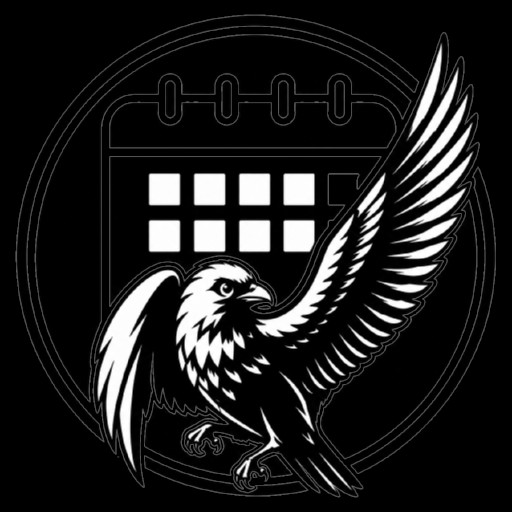
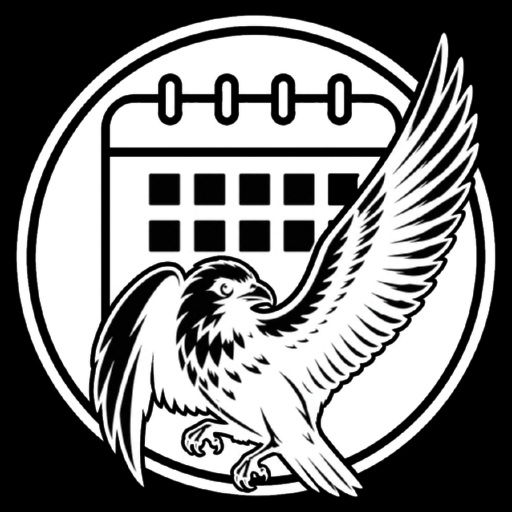
Инвертированный логотип и свои окна подтверждения
На чёрной подложке календарь терялся: он нарисован чёрным с тонкой
белой обводкой и сливался с фоном. Логотип инвертирован — круг стал
белым, рисунок внутри чёрным, читается целиком.

Системные confirm заменены на своё окно: у прошивочного диалога кнопки
на языке системы и чужое оформление. Подтверждение выхода тоже переехало
в веб-часть, нативный диалог остался запасным вариантом.

diff --git a/www/app.js b/www/app.js
@@ -1139,6 +1139,39 @@ function renderProjectDetails(projectId) {
     : '<div class="project-empty">В этом разделе пока нет задач</div>';
 }
 
+/* ---------- своё окно подтверждения вместо системного ---------- */
+
+let dialogResolve = null;
+
+function askConfirm({ title, text = '', ok = 'Продолжить', danger = false }) {
+  return new Promise(resolve => {
+    if (dialogResolve) dialogResolve(false);   // предыдущее считаем отменённым
+    dialogResolve = resolve;
+    $('#dialogTitle').textContent = title;
+    $('#dialogText').textContent = text;
+    $('#dialogText').style.display = text ? '' : 'none';
+    const okBtn = $('#dialogOk');
+    okBtn.textContent = ok;
+    okBtn.classList.toggle('danger', danger);
+    okBtn.classList.toggle('primary', !danger);
+    $('#dialogWrap').classList.add('on');
+  });
+}
+
+function closeDialog(value) {
+  const resolve = dialogResolve;
+  dialogResolve = null;
+  $('#dialogWrap').classList.remove('on');
+  if (resolve) resolve(value);
+}
+
+async function askExit() {
+  const ok = await askConfirm({ title: 'Выйти из приложения?', ok: 'Выйти', danger: true });
+  if (!ok) return;
+  const native = window.Capacitor?.Plugins?.AppSettings;
+  if (native?.exitApp) await native.exitApp();
+}
+
 function showSheet(sel) {
   $('#backdrop').classList.add('on');
   $(sel).classList.add('on');
@@ -1241,7 +1274,18 @@ function goBackView() {
   return false;
 }
 
-window.dayplanHandleBack = () => closeTopSheet() || goBackView();
+/**
+ * Кнопку «Назад» разбирает веб-часть. Возвращать нужно строго синхронно:
+ * Java читает результат сразу, поэтому подтверждение выхода показывается
+ * без ожидания, а true отдаётся немедленно — обработку мы взяли на себя.
+ */
+window.dayplanHandleBack = () => {
+  if (dialogResolve) { closeDialog(false); return true; }
+  if (closeTopSheet()) return true;
+  if (goBackView()) return true;
+  askExit();
+  return true;
+};
 
 /* ============================================================
    События
@@ -1387,6 +1431,12 @@ function handleSettingsChange(e) {
 function bind() {
 
   $$('.tab').forEach(t => t.addEventListener('click', () => switchView(t.dataset.view)));
+
+  $('#dialogCancel').addEventListener('click', () => closeDialog(false));
+  $('#dialogOk').addEventListener('click', () => closeDialog(true));
+  $('#dialogWrap').addEventListener('click', e => {
+    if (e.target === $('#dialogWrap')) closeDialog(false);
+  });
 
   // Настройки постоянно перерисовываются. Обработчики стоят на стабильном
   // контейнере, поэтому кнопки разделов и системных пунктов не «отваливаются».
@@ -1565,8 +1615,14 @@ function bind() {
     if (mode) {
       if (!pendingImport) { closeSheets(); return; }
       const how = mode.dataset.importMode;
-      if (how === 'replace' &&
-          !window.confirm('Заменить все текущие задачи и разделы данными из файла?')) return;
+      if (how === 'replace') {
+        const ok = await askConfirm({
+          title: 'Заменить всё?',
+          text: 'Текущие задачи и разделы будут удалены, вместо них загрузятся данные из файла.',
+          ok: 'Заменить', danger: true
+        });
+        if (!ok) return;
+      }
       Store.applyBundle(pendingImport, how);
       pendingImport = null;
       closeSheets();
@@ -1743,9 +1799,14 @@ function bind() {
     toast('Раздел сохранён');
   });
 
-  $('#projDelete').addEventListener('click', () => {
+  $('#projDelete').addEventListener('click', async () => {
     if (!draftProj.id) return;
-    if (!window.confirm('Удалить раздел? Задачи останутся и перейдут в «Без раздела».')) return;
+    const ok = await askConfirm({
+      title: 'Удалить раздел?',
+      text: 'Задачи останутся и перейдут в «Без раздела».',
+      ok: 'Удалить', danger: true
+    });
+    if (!ok) return;
     Store.deleteProject(draftProj.id);
     if (draft && draft.projectId === draftProj.id) draft.projectId = null;
     $('#projSheet').classList.remove('on');

diff --git a/store/make-icons.js b/store/make-icons.js
@@ -225,7 +225,7 @@ function pageMask(img) {
  * @param circle    обрезать по кругу (для round-иконки)
  */
 function render(img, page, cx, cy, halfSpan, size, mode, circle) {
-  const alpha = mode === 'cutout';
+  const alpha = mode === 'cutout' || mode === 'invert';
   const ch = alpha ? 4 : 3;
   const out = Buffer.alloc(size * size * ch);
   const half = size / 2;
@@ -256,7 +256,19 @@ function render(img, page, cx, cy, halfSpan, size, mode, circle) {
       const o = (y * size + x) * ch;
       const clipped = circle && Math.hypot(x + 0.5 - half, y + 0.5 - half) > clipR;
 
-      if (mode === 'dark') {
+      if (mode === 'invert') {
+        // Круг становится белым, рисунок внутри — чёрным. На тёмной подложке
+        // логотип читается целиком, а не только его белые линии.
+        const a = 1 - onPage / n;
+        out[o] = Math.round(255 - r); out[o + 1] = Math.round(255 - g); out[o + 2] = Math.round(255 - b);
+        out[o + 3] = clipped ? 0 : Math.round(255 * a);
+      } else if (mode === 'invert-dark') {
+        // то же самое, уже наложенное на чёрное — для мест без прозрачности
+        const a = 1 - onPage / n;
+        out[o] = Math.round((255 - r) * a);
+        out[o + 1] = Math.round((255 - g) * a);
+        out[o + 2] = Math.round((255 - b) * a);
+      } else if (mode === 'dark') {
         // то же самое, но уже наложенное на чёрное: подложка чёрная,
         // поэтому цвет просто умножается на непрозрачность
         const a = 1 - onPage / n;
@@ -315,7 +327,7 @@ const SAFE = 0.64;
 const fgSpan = c.radius / SAFE;
 for (const [dir, size] of [['mdpi', 108], ['hdpi', 162], ['xhdpi', 216], ['xxhdpi', 324], ['xxxhdpi', 432]]) {
   done.push(write(res(`mipmap-${dir}/ic_launcher_foreground.png`),
-    encodePNG(render(img, page, c.cx, c.cy, fgSpan, size, 'cutout', false), size, true)));
+    encodePNG(render(img, page, c.cx, c.cy, fgSpan, size, 'invert', false), size, true)));
 }
 
 // Квадратные иконки маска не режет, поэтому центруем по габаритам рисунка,
@@ -329,7 +341,7 @@ const boxHalf = Math.max(c.box.x1 - c.box.x0, c.box.y1 - c.box.y0) / 2;
 // обрезаем по кругу — иначе получится логотип в белом квадрате.
 const legacySpan = c.radius / 0.96;
 for (const [dir, size] of [['mdpi', 48], ['hdpi', 72], ['xhdpi', 96], ['xxhdpi', 144], ['xxxhdpi', 192]]) {
-  const round = encodePNG(render(img, page, c.cx, c.cy, legacySpan, size, 'cutout', true), size, true);
+  const round = encodePNG(render(img, page, c.cx, c.cy, legacySpan, size, 'invert', true), size, true);
   done.push(write(res(`mipmap-${dir}/ic_launcher.png`), round));
   done.push(write(res(`mipmap-${dir}/ic_launcher_round.png`), round));
 }
@@ -338,9 +350,9 @@ for (const [dir, size] of [['mdpi', 48], ['hdpi', 72], ['xhdpi', 96], ['xxhdpi',
 // логотип целиком на чёрном, без белой страницы вокруг
 const storeSpan = boxHalf / 0.94;
 done.push(write(path.join(__dirname, 'icon-512.png'),
-  encodePNG(render(img, page, bx, by, storeSpan, 512, 'dark', false), 512, false)));
+  encodePNG(render(img, page, bx, by, storeSpan, 512, 'invert-dark', false), 512, false)));
 done.push(write(path.join(ROOT, 'www/icon-192.png'),
-  encodePNG(render(img, page, bx, by, storeSpan, 192, 'dark', false), 192, false)));
+  encodePNG(render(img, page, bx, by, storeSpan, 192, 'invert-dark', false), 192, false)));
 
 // Исходный вид на белом — пригодится для документов и печати
 done.push(write(path.join(__dirname, 'icon-512-white.png'),

diff --git a/www/styles.css b/www/styles.css
@@ -628,6 +628,41 @@ svg { width: 22px; height: 22px; fill: none; stroke: currentColor;
 .pick-count b { color: var(--text); font-weight: 650; }
 .pick-clear { margin-left: auto; color: var(--accent); font-size: 13px; font-weight: 600; }
 
+/* ---------------- Окно подтверждения ---------------- */
+
+/* Своё вместо системного confirm: у того кнопки на языке прошивки
+   и оформление, не имеющее отношения к приложению. */
+.dialog-wrap {
+  position: fixed; inset: 0; z-index: 80;
+  display: grid; place-items: center; padding: 28px;
+  background: rgba(0,0,0,.55); backdrop-filter: blur(2px);
+  opacity: 0; pointer-events: none;
+  transition: opacity .2s var(--ease);
+}
+.dialog-wrap.on { opacity: 1; pointer-events: auto; }
+
+.dialog {
+  width: 100%; max-width: 340px;
+  background: var(--surface); border: 1px solid var(--line2);
+  border-radius: 20px; padding: 22px 20px 14px;
+  box-shadow: 0 20px 50px rgba(0,0,0,.45);
+  transform: scale(.94);
+  transition: transform .22s var(--ease);
+}
+.dialog-wrap.on .dialog { transform: scale(1); }
+
+.dialog-title { display: block; font-size: 17px; font-weight: 650; letter-spacing: -.015em; }
+.dialog-text { margin: 8px 0 0; font-size: 14px; line-height: 1.45; color: var(--dim); }
+.dialog-actions { display: flex; justify-content: flex-end; gap: 4px; margin-top: 18px; }
+.dialog-btn {
+  padding: 11px 16px; border-radius: 12px;
+  font-size: 14.5px; font-weight: 600; color: var(--dim);
+  transition: background .15s;
+}
+.dialog-btn:active { background: var(--surface2); }
+.dialog-btn.primary { color: var(--accent); }
+.dialog-btn.danger { color: var(--danger); }
+
 /* ---------------- Тост ---------------- */
 
 .toast {

diff --git a/www/index.html b/www/index.html
@@ -12,7 +12,7 @@
 <meta name="tagline" content="Не забудь про галочку!">
 <meta name="app-principle" content="записал → не забыл → сделал → поставил галочку">
 <title>Галка: Планы и заметки</title>
-<link rel="stylesheet" href="styles.css?v=20260816-accent">
+<link rel="stylesheet" href="styles.css?v=20260816-dialog">
 </head>
 <body>
 
@@ -241,12 +241,24 @@
   <div class="sheet-body" id="pickerBody"></div>
 </div>
 
+<!-- ============ ОКНО ПОДТВЕРЖДЕНИЯ ============ -->
+<div class="dialog-wrap" id="dialogWrap">
+  <div class="dialog" role="alertdialog" aria-modal="true" aria-labelledby="dialogTitle">
+    <b class="dialog-title" id="dialogTitle">—</b>
+    <p class="dialog-text" id="dialogText"></p>
+    <div class="dialog-actions">
+      <button class="dialog-btn" id="dialogCancel">Отмена</button>
+      <button class="dialog-btn primary" id="dialogOk">Продолжить</button>
+    </div>
+  </div>
+</div>
+
 <div class="toast" id="toast"></div>
 
-<script src="store.js?v=20260816-accent"></script>
-<script src="notify.js?v=20260816-accent"></script>
-<script src="backup.js?v=20260816-accent"></script>
-<script src="picker.js?v=20260816-accent"></script>
-<script src="app.js?v=20260816-accent"></script>
+<script src="store.js?v=20260816-dialog"></script>
+<script src="notify.js?v=20260816-dialog"></script>
+<script src="backup.js?v=20260816-dialog"></script>
+<script src="picker.js?v=20260816-dialog"></script>
+<script src="app.js?v=20260816-dialog"></script>
 </body>
 </html>

diff --git a/android/app/src/main/java/com/ptashka/dayplan/AppSettingsPlugin.java b/android/app/src/main/java/com/ptashka/dayplan/AppSettingsPlugin.java
@@ -148,6 +148,14 @@ public class AppSettingsPlugin extends Plugin {
         startSettings(appDetailsIntent(getContext()), null, call);
     }
 
+    /** Закрыть приложение. Подтверждение выхода рисует веб-часть,
+     *  системный диалог остался только как запасной вариант. */
+    @PluginMethod
+    public void exitApp(PluginCall call) {
+        call.resolve();
+        getActivity().runOnUiThread(() -> getActivity().finish());
+    }
+
     @PluginMethod
     public void openUrl(PluginCall call) {
         String url = call.getString("url", "").trim();
